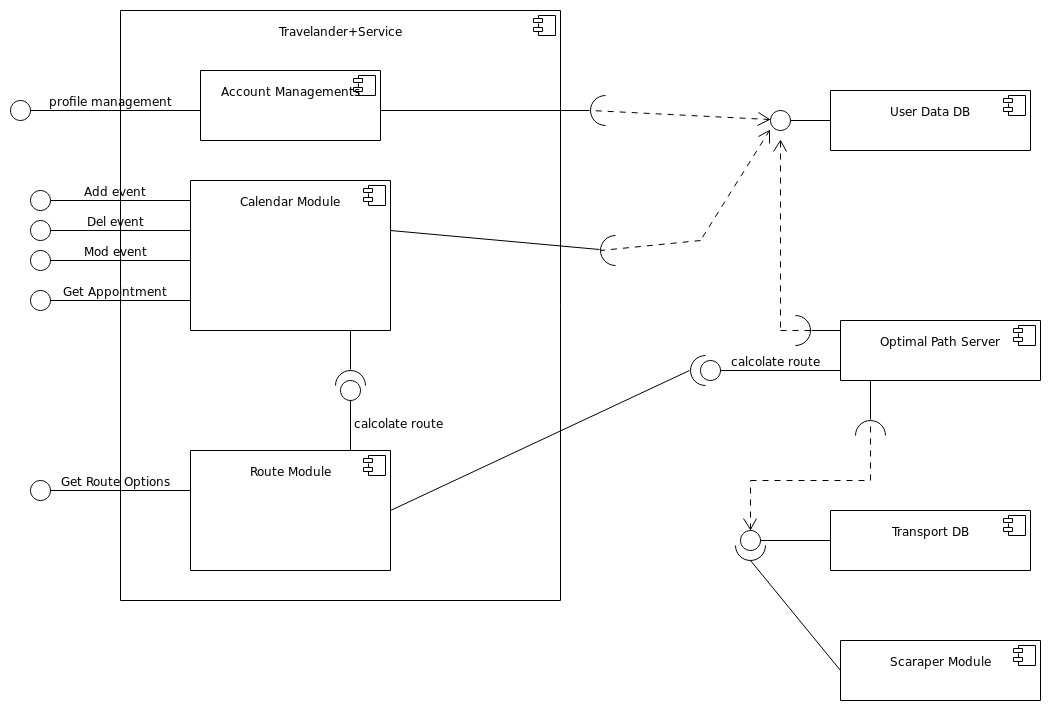
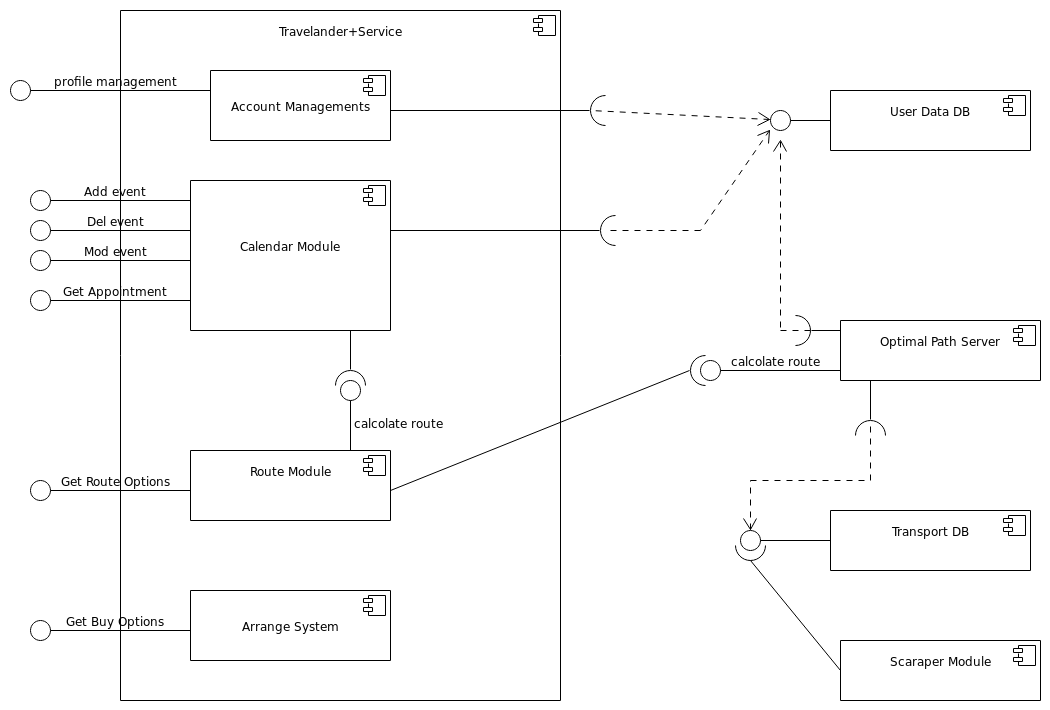
integration of components

diff --git a/DD.rst b/DD.rst
@@ -96,7 +96,7 @@ Cient Side
 Deployement View
 ----------------
 
-Other userful information about the deployment of the components can be represented on the diagram below.
+Other userful information about the deployment of the BackEnd components can be represented on the diagram below.
 
 
 	.. image:: Resources/DD_Diagram/Deployment_view.png
@@ -231,13 +231,18 @@ BackEnd
 Scraping Module
 ----------------
 
+Scrap modules are not required for the testing and implementation of the other components.
+they will be used once the system has been completed to populate the DataBases.
+They can be implemented, tested and integrated independently of the other modules.
+
 ---------
 FrontEnd
 ---------
 
-    #) GUI
+    #) GUI (android and Broswer)
     #) Client Interface
-    #) ...
+    #) Client app
+    #) Allarm System
 
 Component Integration sequence
 --------------------------------
@@ -245,12 +250,18 @@ Component Integration sequence
 In this section of the document will be described the order of integration of the components.
 As a notation, an arrow going from component A to component B means that A is necessary for B to function, so it must have already been implemented before performing the integration.
 
+
+--------
+BackEnd
+--------
+
     .. image:: Resources/DD_Diagram/Integration.png
 
+---------
+FrontEnd
+---------
 
-
-Elements to be Integrated 
---------------------------
+    .. image:: Resources/DD_Diagram/IntegrationGui.png
 
 
 Effort Spent
